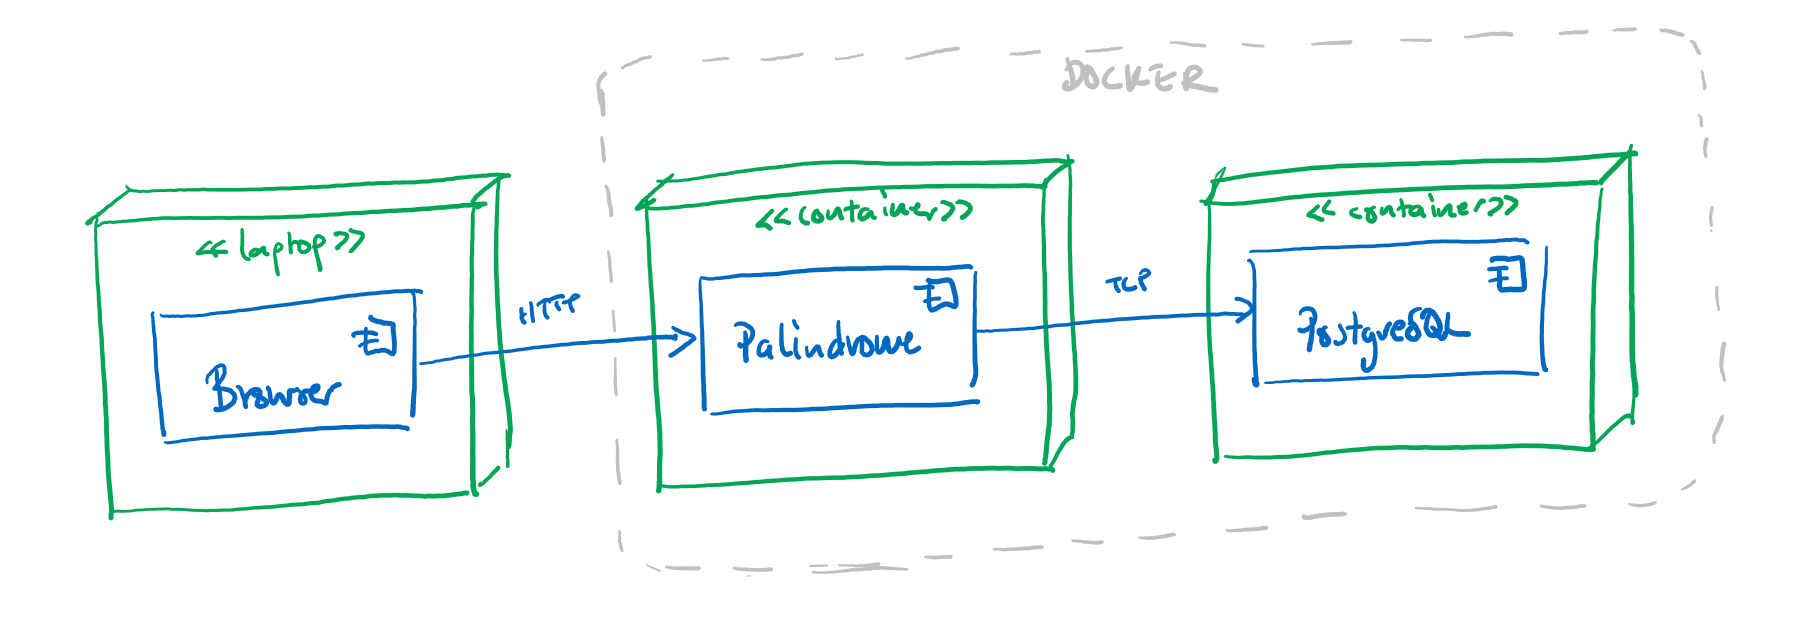
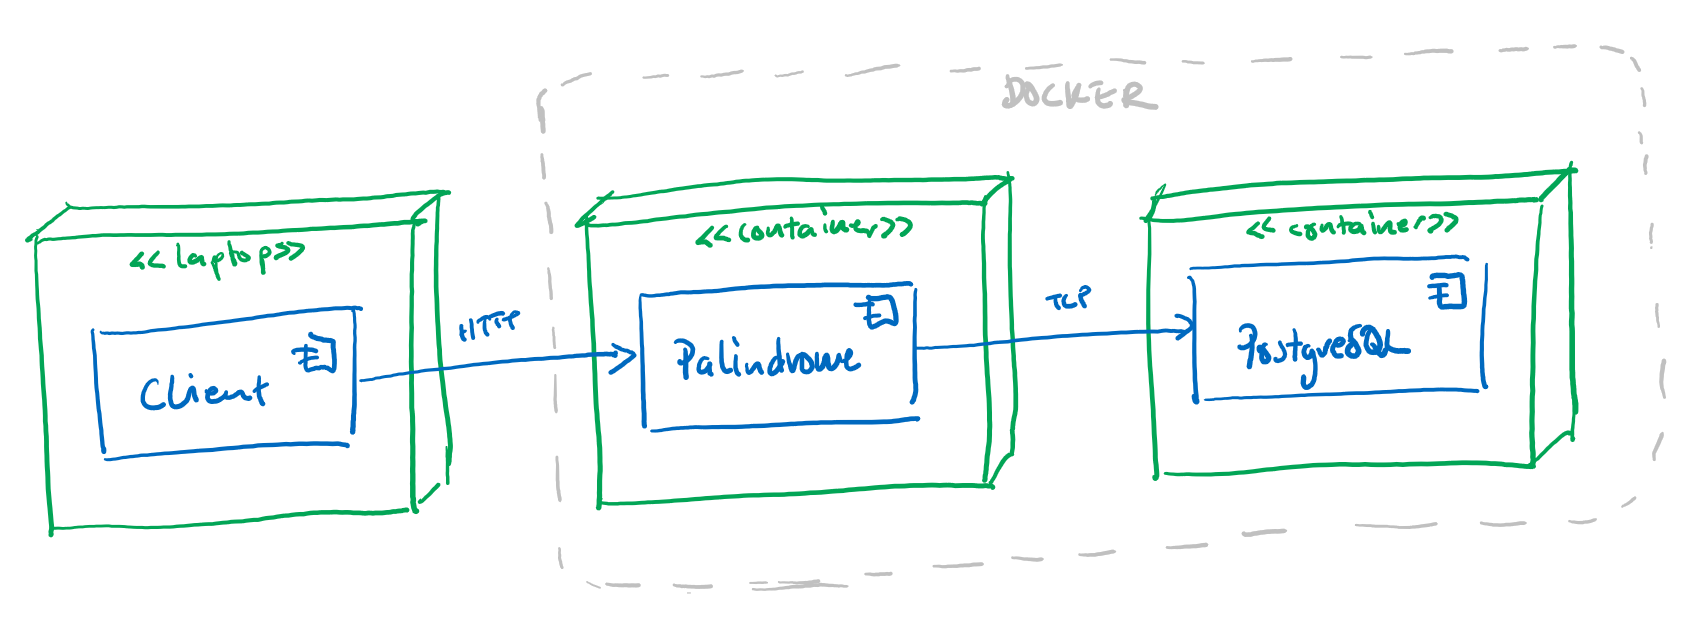
Added architecture description and system requirement specification documentation.

diff --git a/documentation/source/ad/index.rst b/documentation/source/ad/index.rst
@@ -1,2 +1,128 @@
+========================
 Architecture Description
 ========================
+
+Introduction
+============
+
+The architecture description describes the functionality of the application and also weighs in the different
+design decisions that have been made. It consists of a number of views that describe the software in different ways.
+
+This is a very abbreviated architecture description. Scenarios (describing interactions
+between different components) and information analysis (describing how different entities are transformed, mean
+and should be interpreted) have been omitted due to the application size.
+
+Views
+=====
+
+Functional View
+---------------
+
+Overview
+^^^^^^^^
+
+The following diagram depicts the functional view of the Palindrome application:
+
+.. image:: functional-view.png
+
+Components
+^^^^^^^^^^
+
+The following components are a part of this view.
+
+Client
+    This is the web service client that uses the web service. It can be a regular web browser, or a dedicated
+    client of for the message API.
+
+Palindrome
+    Palindrome is the application itself. It consists of a Django project and is responsible for setting the context
+    for the actual web service application. It uses Django's session management for clients, API routing and database
+    connection management.
+
+Minim
+    Minim is the actual application. It is a typical Django application, and it consists of a number of interaction
+    points with the framework, as well as the actual logic for palindrome management. The data model is represented in
+    ``models.py``, the palindrome checking functionality is in ``palindrome.py``, the view interactions are in
+    ``views.py`` and so on.
+
+Django REST Framework (DRF)
+    Django REST Framework is an extension to Django, that eliminates much of the repetitive work of managing the
+    database and serializing/deserializing models for the web interface.
+
+Django
+    Django is an open-source web framework for Python. It is commonly used and manages everything from data models
+    to web requests. In this project, is is responsible for
+
+PostgreSQL
+    PostgreSQL is the backing store for Django. It is a relational database engine which is common on the market.
+
+Design Considerations
+^^^^^^^^^^^^^^^^^^^^^
+
+Palindrome Checking
+    The cost of checking if a message is a palindrome or not is performed once, upon creating or updating messages. The
+    rationale for this is to ensure that we do not spend unnecessary CPU cycles processing this on every query made
+    to the application.
+
+Django vs Flask
+    Django has been selected as the web framework to use, as it is complete with regards to both persistant storage,
+    session handling and other plumbing infrastructure. Together with Django REST Framework, it makes the solution
+    fairly straightforward. Avoiding writing a lot of boilerplate adds value and minimizes the chances of making
+    mistakes for basic CRUD operations.
+
+    Flask has the benefit of being a more lightweight framework, but on the other hand, requires you to manage
+    much of the boilerplate yourself, as well as all session and connection management.
+
+    From a project brief perspective, we can assume that the reviewers want to see a demonstation of coding abilities.
+    Flask would have produced more bulk code, but it would be much boilerplate, and would not be a demonstration
+    of the development skills, more of integration. Unfortunately, the usage of Django does not provide vast amounts
+    of code.
+
+PostgreSQL vs other databases
+    PostgreSQL is a rather heavy database. It was selected for portability reasons and (fairly) consistent behaviour
+    across platforms. A more efficient and fit-for-purpose database would be a NoSQL document database such as MongoDB.
+    However, Django does not support MongoDB out of the box, and more libraries would have needed to be integrated to
+    support the usage of this (or other) databases.
+
+Deployment View
+---------------
+
+Overview
+^^^^^^^^
+
+The following diagram depicts the deployment view of the Palindome project:
+
+.. image:: deployment-view.png
+
+Components
+^^^^^^^^^^
+
+There are three main nodes in the application.
+
+Laptop
+    Represents the node that runs the client. In this case it is a laptop as that has been the main client platform.
+
+Containers for Palindrome and PostgreSQL
+    Both Palindrome and PostgreSQL have been containerized. Palindrome has its own Docker container definition, while
+    PostgreSQL is running in an official Docker container. Both of them have been running in Docker for Desktop during
+    development, but are deployable to other container services such as Kubernetes.
+
+Design Considerations
+^^^^^^^^^^^^^^^^^^^^^
+
+Horizontal Scaling
+    Horizontal scaling might be needed in the future if the load increases. Additional application instances can
+    easily be added, allowing for more clients to be supported. The database will not scale as easily, and will
+    require more work before supporting horizontal scaling.
+
+Vertical Scaling
+    Both the application and database containers will support vertical scaling to a limited degree. The application
+    container will most likely hit the scaling roof first as Python inherently is a single-threaded execution platform.
+    Vertical scaling can be achieved by putting a frontend server in front of it, and using the WSGI interface. The
+    database container will likely handle vertical scaling much better as it support multithreading.
+
+Containerization of Database Server
+    Using an official PostgreSQL container allows for easy deployment of the database with a minimum of hassle. PostgreSQL
+    has a fairly large footprint though, so if better efficiency would be needed, another database server should be
+    selected.
+

diff --git a/documentation/source/srs/index.rst b/documentation/source/srs/index.rst
@@ -8,20 +8,184 @@ Introduction
 The purpose of this document is to provide a set of requirements for the Palindrome application. The intended
 audience are business users, developers and testers that have an interest in what the application can and can not do.
 
-Overall Description
-===================
-
 Features
 ========
+
+The application only supports one two features: message handling and palindrome checks.
+
+Message Handling
+----------------
+
+The message handling functionality allows for messages to be created, retrieved, updated and deleted.
+
+MSG-001 The system must support CRUD operations for messages
+    Storage of messages should be persistent, and existing messages should be editable.
+
+MSG-002 The system must support listing messages
+    Supports browsing/navigating to messages which the client is not aware of the identity.
+
+Palindrome Checks
+-----------------
+
+The palindrome functionality adds to the message handling functionality the ability to check if a particular
+message is a palindrome or not. Special for this functionality is being able to determine if it is a strict or relaxed.
+
+PAL-001 The system must support checking if a string is a strict palindrome
+    A strict palindrome is a string which character by character, is a palindrome. This includes spaces, special
+    characters and so on. This is typically what computers consider a palindrome.
+
+PAL-002 The system must support checking if a string is a relaxed palindrome.
+    A relaxed palindrome is a string in which alphanumeric characters are the same, disregarding spaces, special
+    characters and so on. This is typically what people consider a palindrome.
 
 Data Requirements
 =================
 
+Data Model
+----------
+
+The key data object in the solution is the message. It consists of a character string. Every message must have
+the following fields.
+
+id (integer)
+    The identification number of the message. Used for identifying a message when retrieving, updating and deleting.
+    Positive integer value.
+
+message (string)
+    The message body itself.
+
+is_strict_palindrome (boolean)
+    The status flag indicating if a palindrome is strict or not.
+
+is_relaxed_palindrome (boolean)
+    The status flag indicating if a palindrome is relaxed or not.
+
+created (timestamp)
+    The creation timestamp for the message.
+
+last_modified (timestamp)
+    The last modified timestamp for the message. Useful to see when a message was last changed.
+
+
 External Interface Requirements
 ===============================
+
+The following external interface requirements exists
+
+Web Service API
+---------------
+
+There is a requirement for the web service to have a public API.
+
+WEB-001 The system must provide CRUD operations via a RESTful API
+    Aligned with the project brief.
+
+WEB-002 The system may provide a browseable user interface
+    Added for convenience.
+
+WEB-003 The system must exchange information in JSON format
+    Assumed from the project brief.
+
 
 Quality Attributes
 ==================
 
-Quality attribute analysis has been moved to the corresponding section in the Architecture Description.
+Quality attribute analysis has been moved to the corresponding section in the Architecture Description. This section
+only contains the key non-functional requirements. The list of quality attributes are aligned with the list in the book
+Software Requirements (Wiegers & Beatty).
+
+External Quality Attributes
+---------------------------
+
+Availability
+^^^^^^^^^^^^
+
+No availability requirements.
+
+Installability
+^^^^^^^^^^^^^^
+
+INSTALL-001 The system may be containerized
+    The project brief mentions that the software may be containerized to demonstrate that it can be packaged
+    appropriately.
+
+Integrity
+^^^^^^^^^
+
+No integrity requirements.
+
+Interoperability
+^^^^^^^^^^^^^^^^
+
+INTEROP-001 The system must have a web service interface
+    This is discussed more in detail under the external interface requirements section.
+
+Performance
+^^^^^^^^^^^
+
+No performance requirements.
+
+Reliability
+^^^^^^^^^^^
+
+No reliability requirements.
+
+Robustness
+^^^^^^^^^^
+
+No robustness requirements.
+
+Safety
+^^^^^^
+
+No safety requirements.
+
+Security
+^^^^^^^^
+
+No security requirements. (See architecture description for more information.)
+
+Usability
+^^^^^^^^^
+
+No usability requirements. (Project brief says to avoid focusing on any UI.)
+
+Internal Quality Attributes
+---------------------------
+
+Efficiency
+^^^^^^^^^^
+
+EFF-001 The system should minimize CPU load of palindrome checks
+    We do not want to spend precious CPU cycles checking of a message is a palindrome. (Assumed that this
+    operation is expensive.)
+
+Modifiability
+^^^^^^^^^^^^^
+
+No modifiability requirements.
+
+Portability
+^^^^^^^^^^^
+
+PORT-001 The system should be able to execute on Windows, Linux and Mac
+    This gives us more options when it comes to deployment as we don't know what operating system the reviewers
+    are on.
+
+Reusability
+^^^^^^^^^^^
+
+No reusability requirements.
+
+Scalability
+^^^^^^^^^^^
+
+SCALE-001 The system should be able to scale horizontally
+    Being a web service, it should be able to scale if load increases.
+
+Verifiability
+^^^^^^^^^^^^^
+
+No verifiability requirements.
+
 
